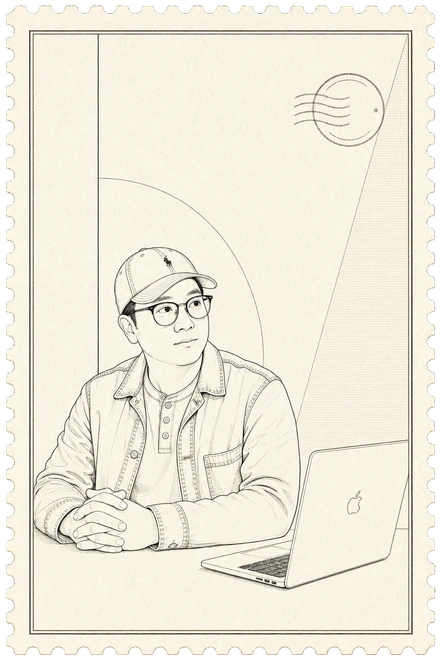
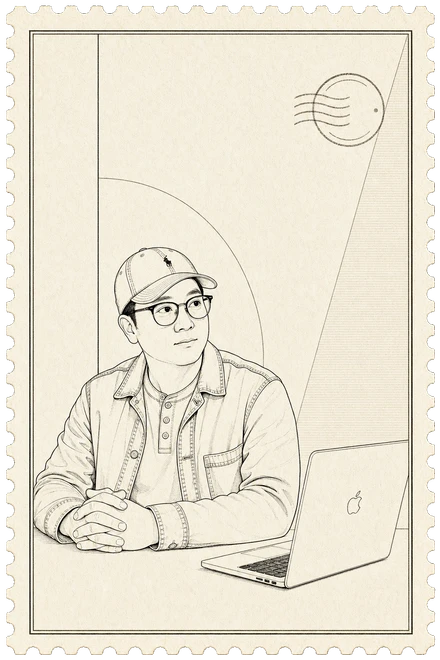
Improve stamp contrast

diff --git a/components/ContactSection.tsx b/components/ContactSection.tsx
@@ -66,7 +66,7 @@ export const ContactSection: React.FC<ContactSectionProps> = ({ logoUrl }) => {
                         alt=""
                         loading="lazy"
                         decoding="async"
-                        className="block h-auto w-full mix-blend-multiply"
+                        className="block h-auto w-full drop-shadow-[0_2px_5px_rgba(58,45,32,0.22)]"
                     />
                 </div>
 